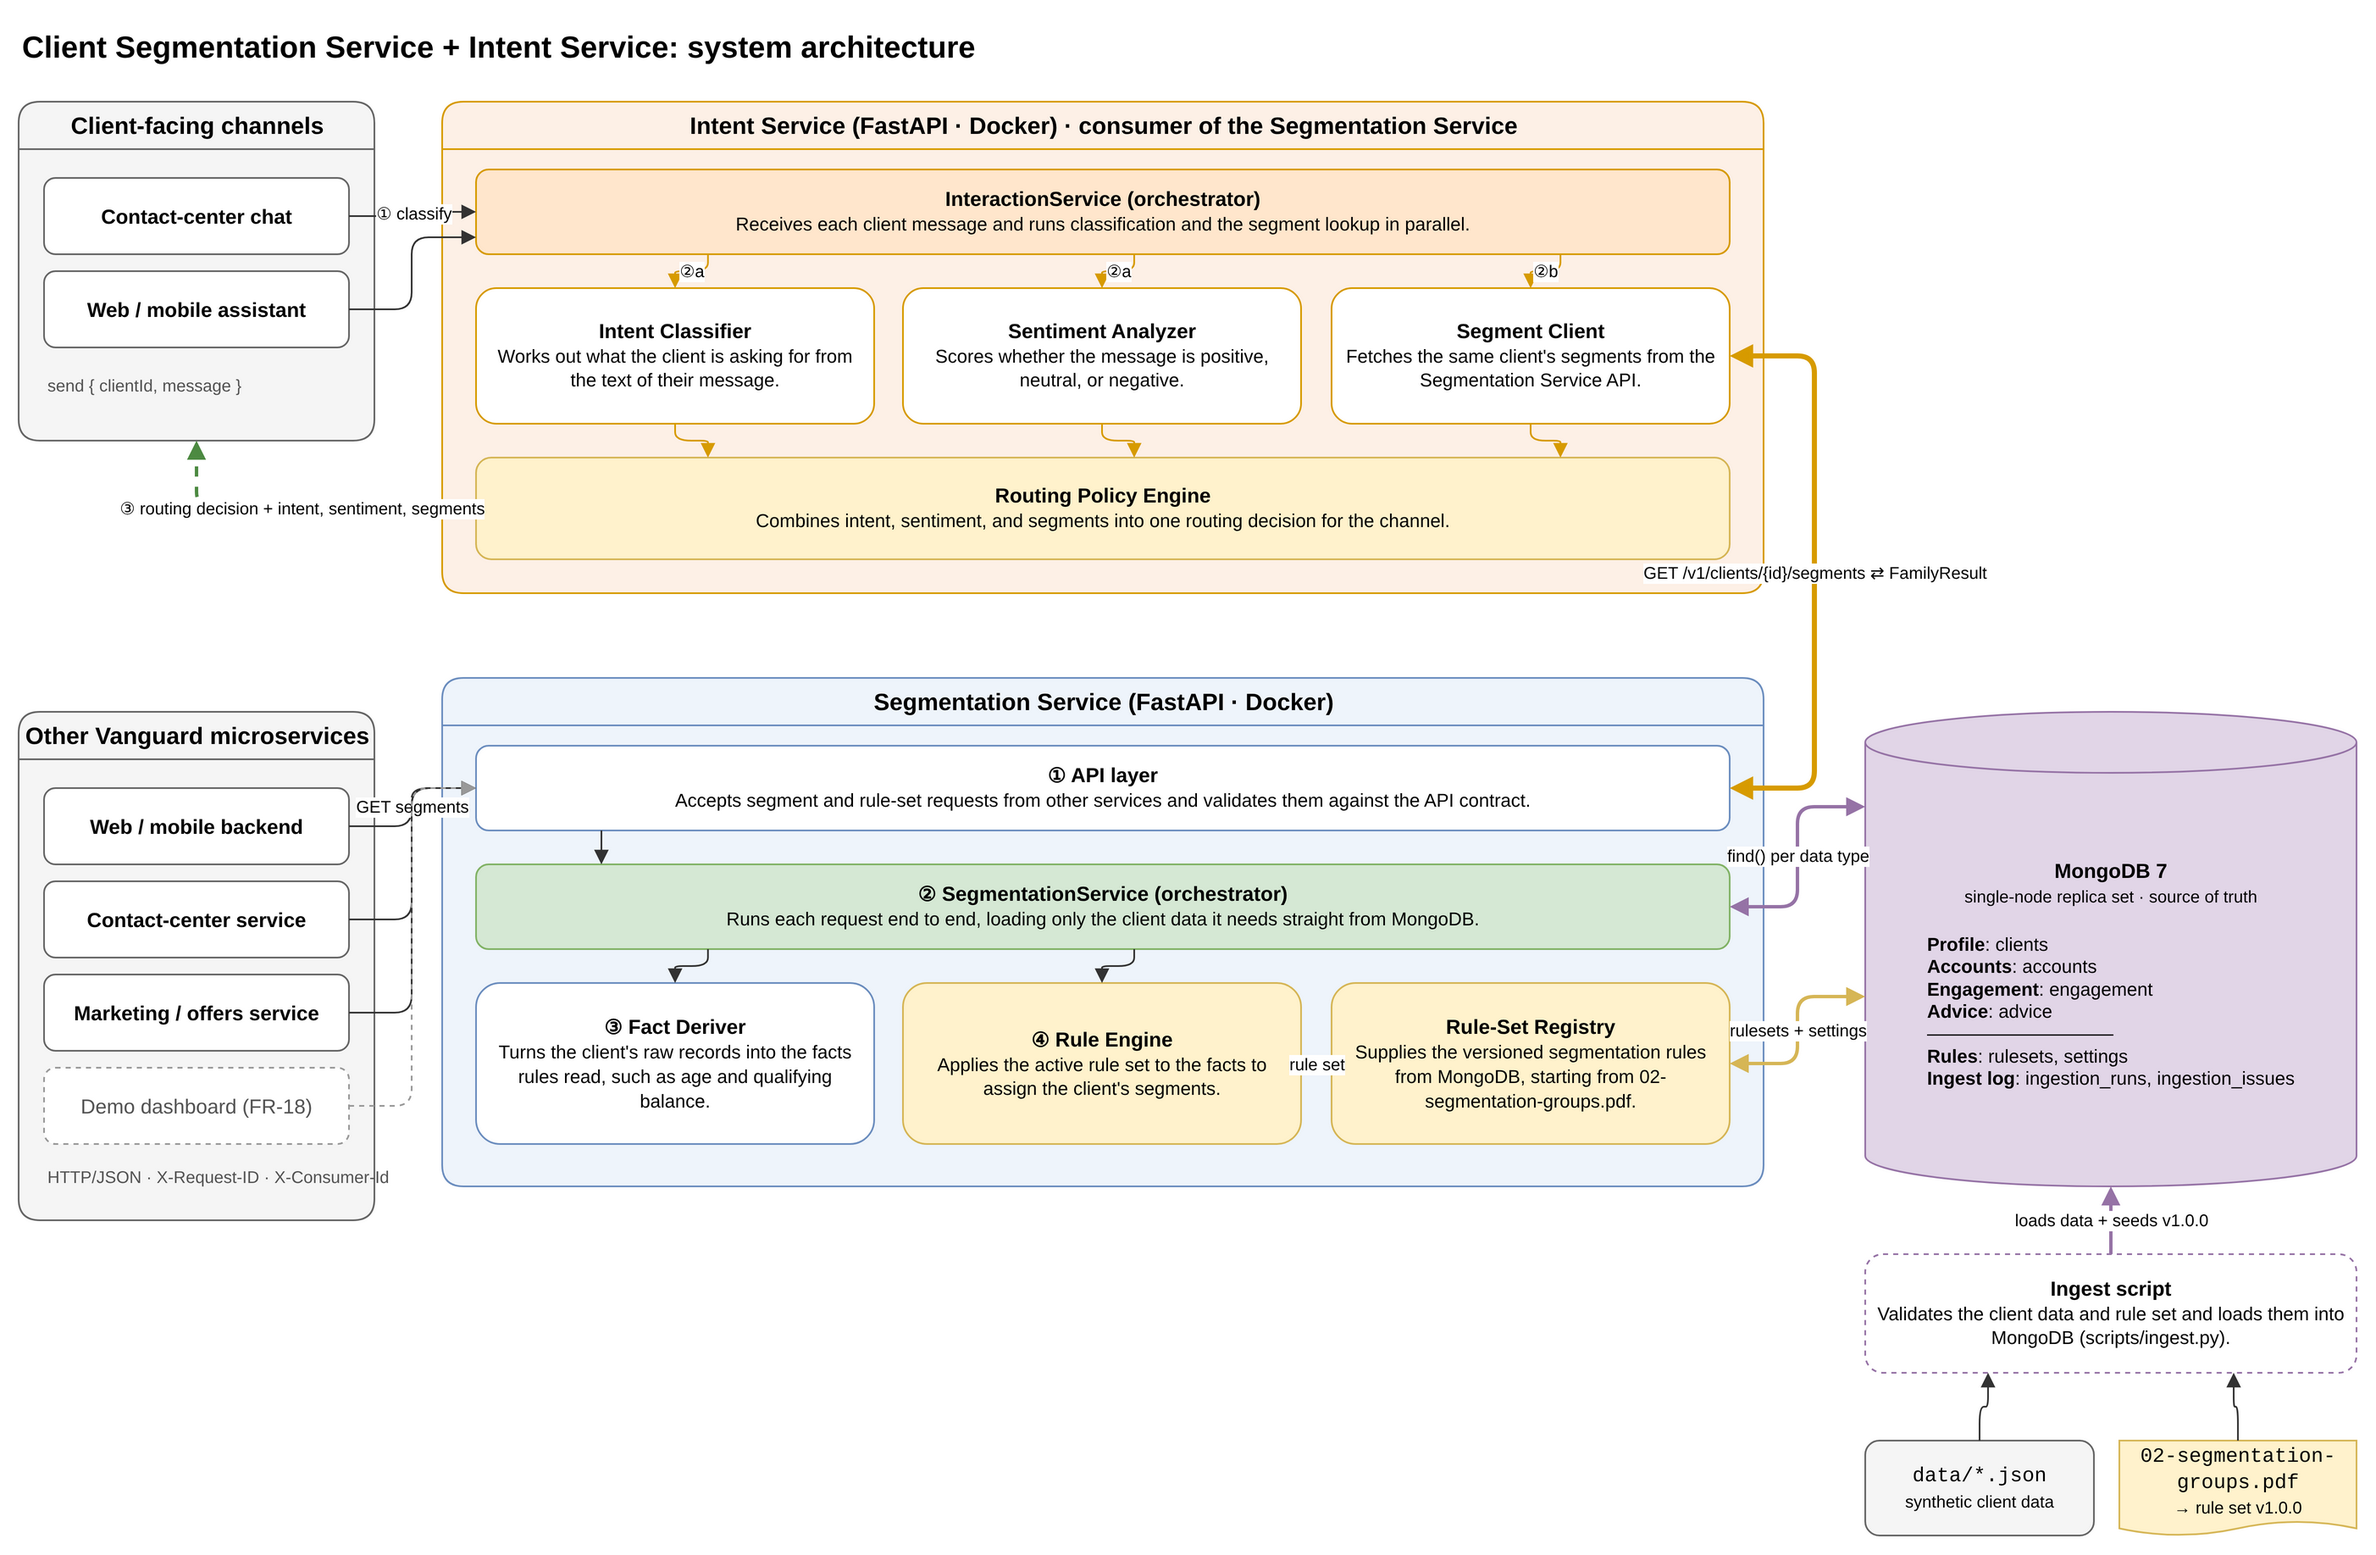
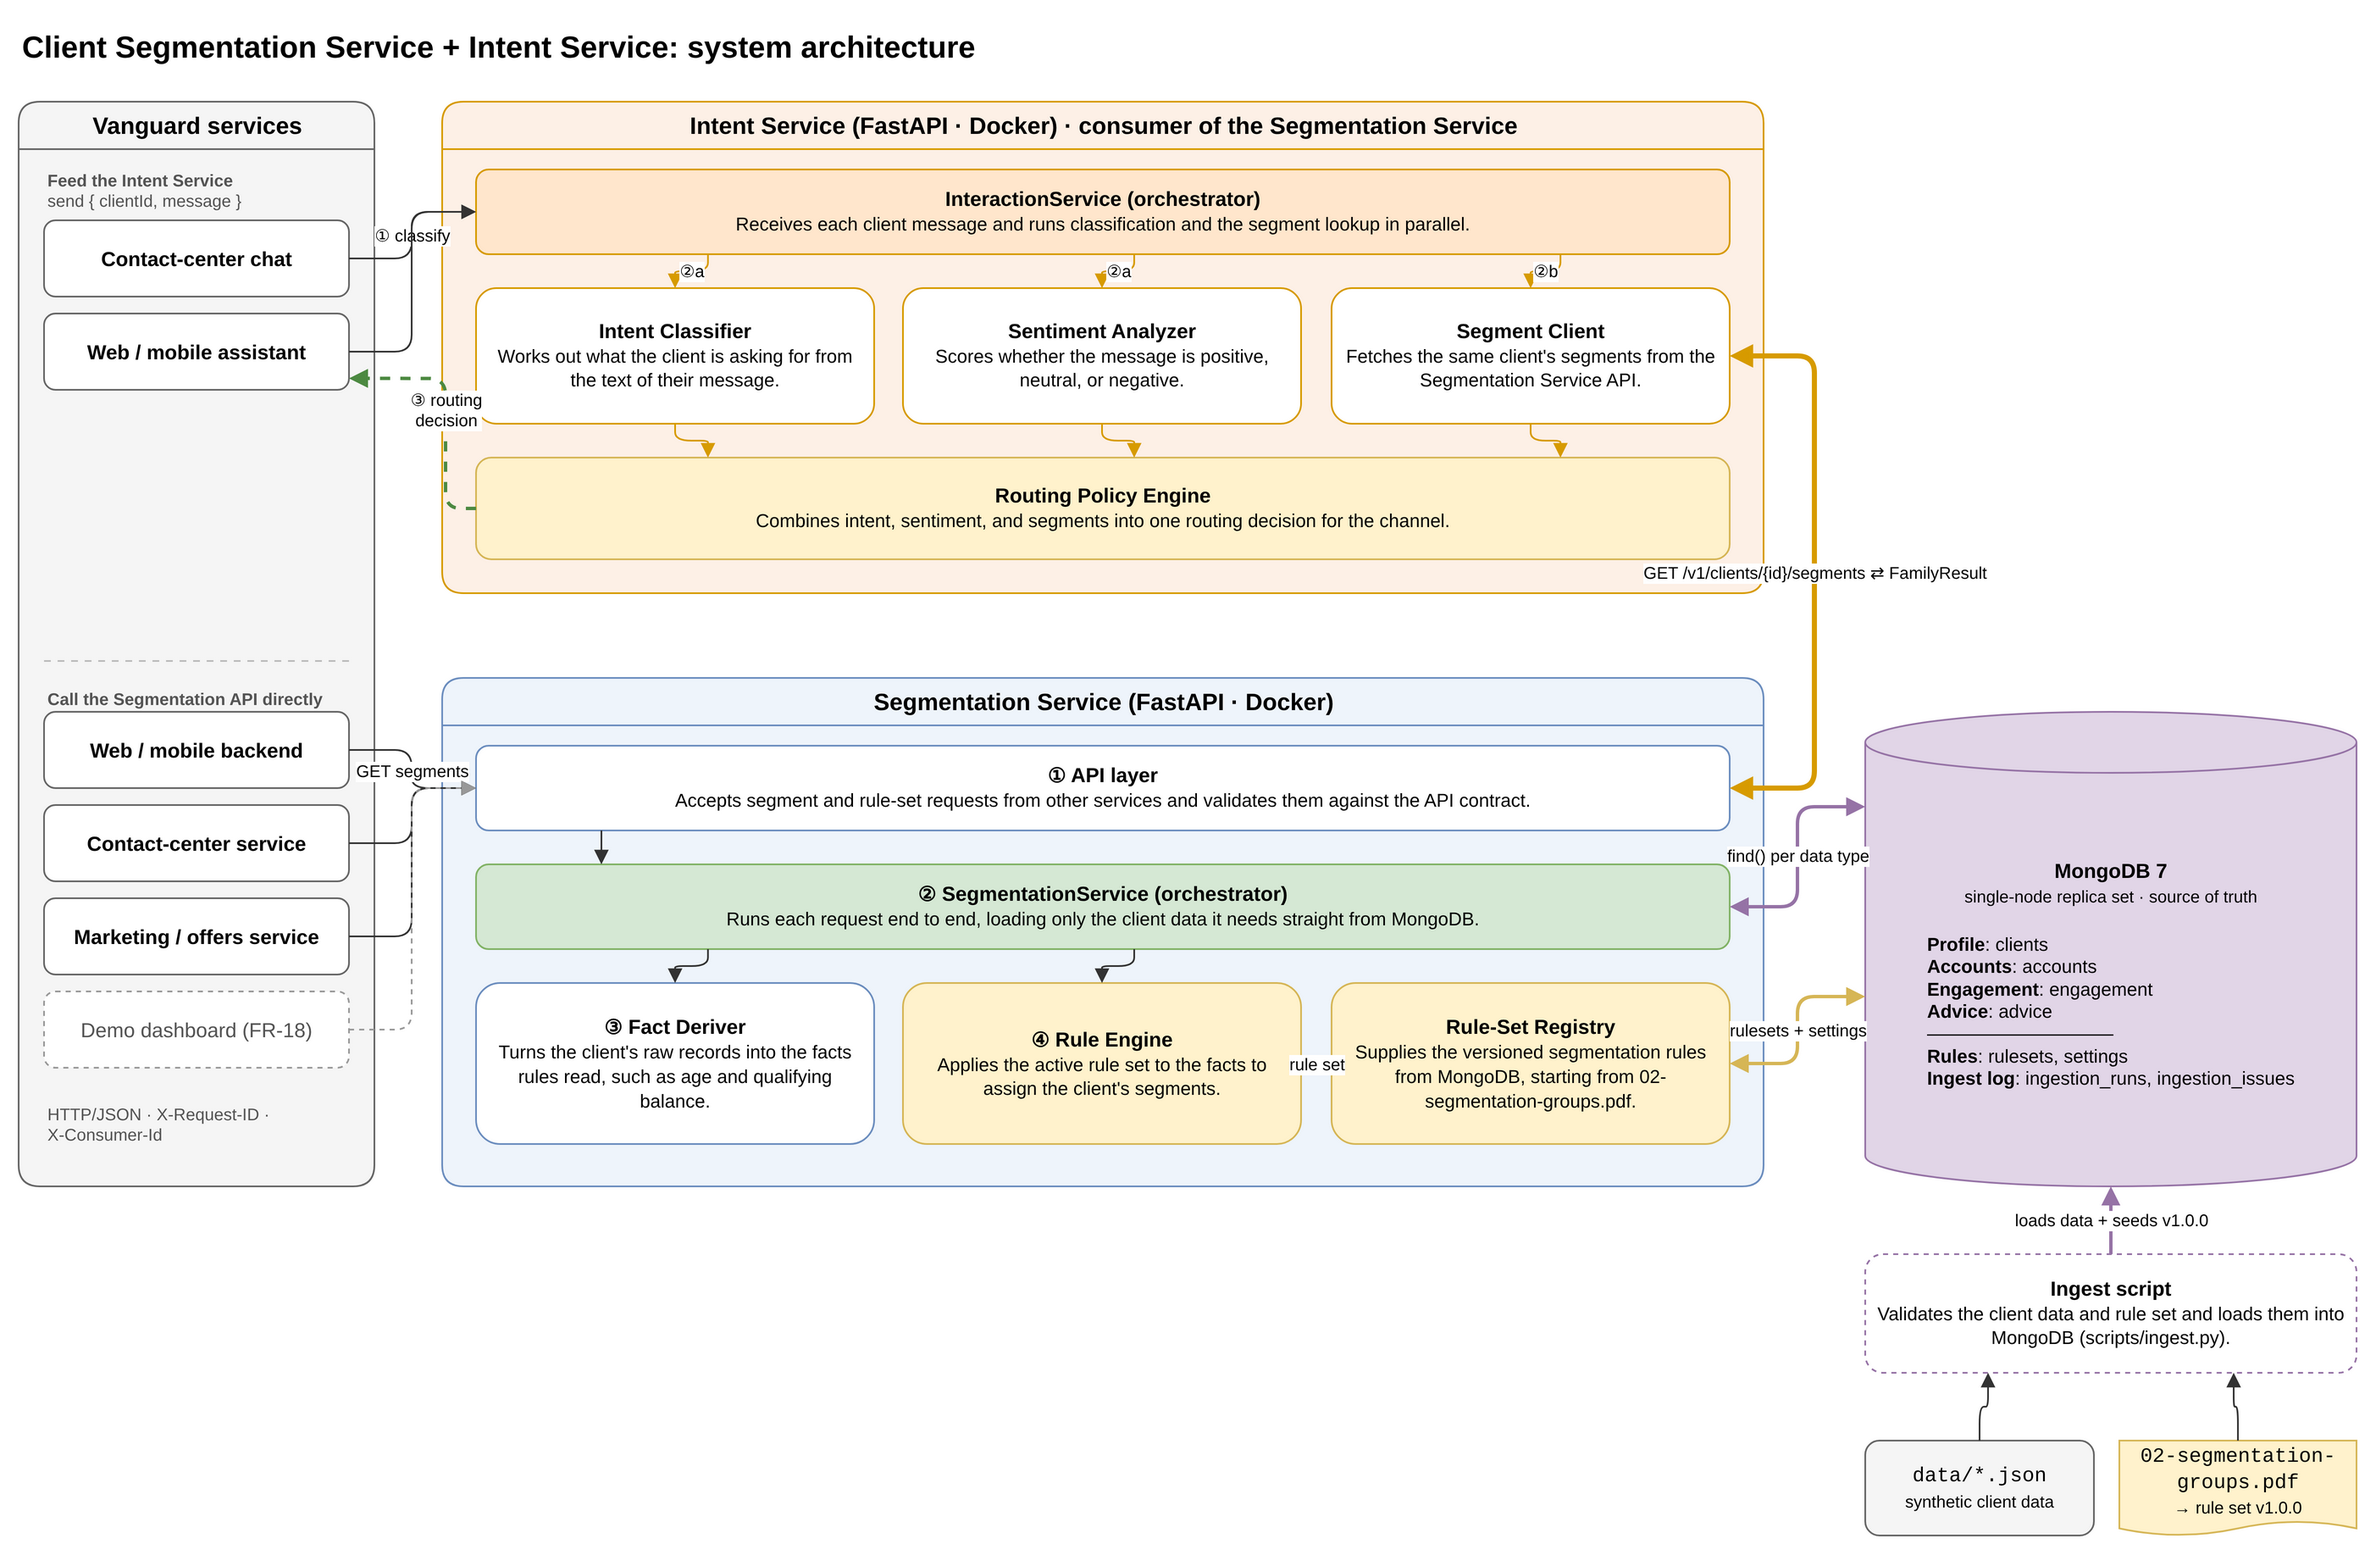
docs: group all Vanguard services into one column in the architecture
Chat and assistant channels feed the Intent Service; the other services
call the Segmentation API directly.

diff --git a/docs/03-service-design.md b/docs/03-service-design.md
@@ -45,14 +45,15 @@ Editable source: [`architecture.drawio`](architecture.drawio). Page 1 shows the 
 
 ```mermaid
 flowchart LR
-    subgraph Consumers[External Vanguard microservices]
+    subgraph Consumers[Vanguard services]
+        CH[Contact-center chat /<br/>web-mobile assistant]
         MS1[Web / mobile backend]
         MS2[Contact-center service]
         MS3[Marketing / offers service]
         DASH[Demo dashboard]
     end
 
-    CH[Client-facing channels<br/>chat / assistant] -->|POST /v1/interactions:classify| INT
+    CH -->|POST /v1/interactions:classify| INT
 
     subgraph IS[Intent Service - FastAPI]
         INT[InteractionService]
